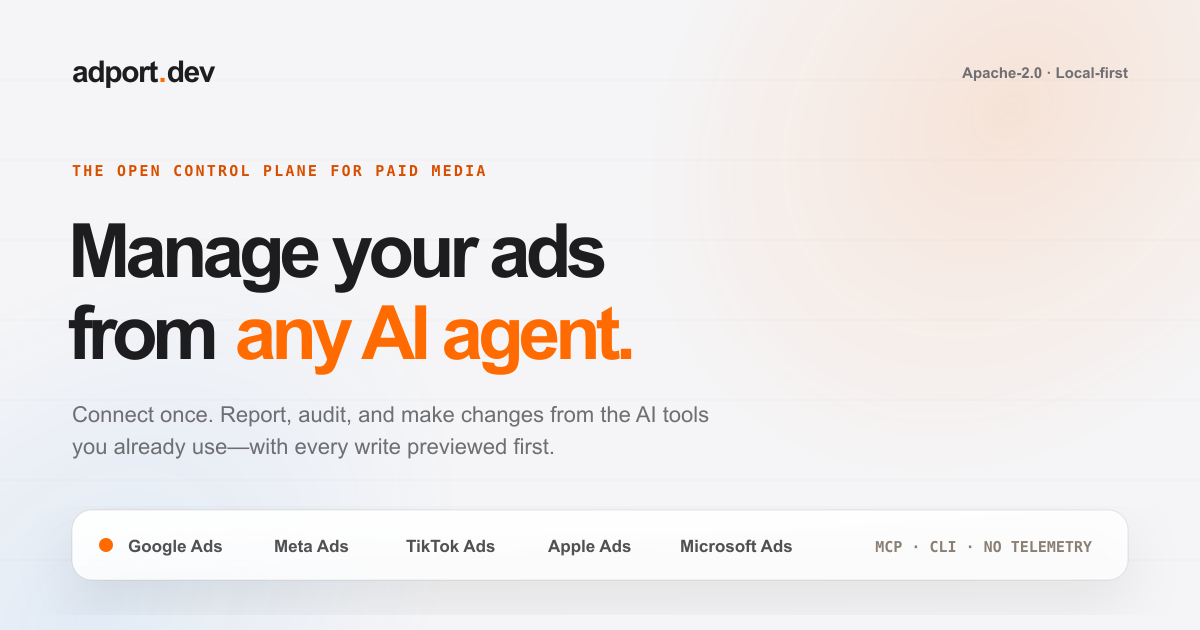
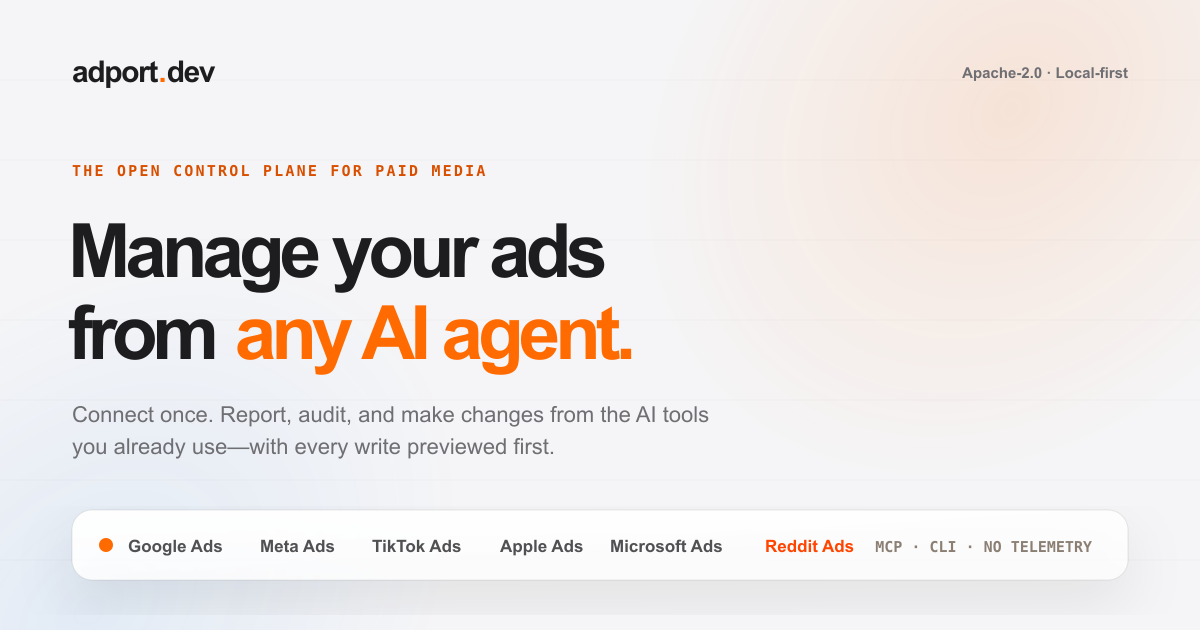
feat(website): add Reddit Ads to platform list

Changed region(s): [[0.2158, 0.8444, 0.7092, 0.8746]]

diff --git a/website/index.html b/website/index.html
@@ -11,14 +11,14 @@
     <meta property="og:description" content="Connect your ad accounts once. Manage them from any AI agent, with every write previewed first." />
     <meta property="og:type" content="website" />
     <meta property="og:url" content="https://www.adport.dev" />
-    <meta property="og:image" content="https://www.adport.dev/og-image.png?v=2" />
+    <meta property="og:image" content="https://www.adport.dev/og-image.png?v=3" />
     <meta property="og:image:width" content="1200" />
     <meta property="og:image:height" content="630" />
     <meta property="og:image:alt" content="Adport — Manage your ads from any AI agent" />
     <meta name="twitter:card" content="summary_large_image" />
     <meta name="twitter:title" content="Adport — The open control plane for paid media" />
     <meta name="twitter:description" content="Connect your ad accounts once. Manage them from any AI agent, with every write previewed first." />
-    <meta name="twitter:image" content="https://www.adport.dev/og-image.png?v=2" />
+    <meta name="twitter:image" content="https://www.adport.dev/og-image.png?v=3" />
     <title>Adport — The open control plane for paid media</title>
     <link rel="canonical" href="https://www.adport.dev" />
     <link rel="icon" href="/favicon.svg?v=2" type="image/svg+xml" />
@@ -73,7 +73,7 @@
           </button>
         </div>
         <ul class="proof" aria-label="Product attributes">
-          <li><strong>5</strong> ad platforms</li>
+          <li><strong>6</strong> ad platforms</li>
           <li><strong>2</strong> steps for every write</li>
           <li><strong>0</strong> telemetry</li>
         </ul>
@@ -107,6 +107,7 @@
         <li><svg class="tiktok-logo" viewBox="0 0 58 58" aria-hidden="true"><path d="M25.98 0v37.68c0 4.94-3.55 8.11-7.88 8.11-1.43 0-2.79-.33-3.97-.95 1.5 1.91 3.87 3.01 6.47 3.01 4.32 0 7.87-3.17 7.87-8.11V2.06h6.85A20.3 20.3 0 0 1 34.87 0h-8.89ZM20.36 21.91v-1.87a15.6 15.6 0 0 0-2.45-.19C8.16 19.85 0 27.66 0 37.35c0 6.36 3.1 11.79 7.81 15.01a18.09 18.09 0 0 1-5.32-12.96c0-9.67 8.14-17.48 17.87-17.49Zm29-6.56v-1.69a17.4 17.4 0 0 1-7.63-2.55 16.14 16.14 0 0 0 7.63 4.24Z" fill="#2DCCD3"/><path d="M41.73 11.11a17.48 17.48 0 0 1-4.37-9.05h-2.04c1.16 4.23 3.56 7.18 6.41 9.05Zm7.63 11.37a19.31 19.31 0 0 1-11-2.97c3.84 3.84 8.5 5.03 13.5 5.03v-8.82a17.4 17.4 0 0 1-2.5-.37v7.13ZM14.13 44.84a8.05 8.05 0 0 1-1.7-5.1c0-5.7 4.47-8.72 10.42-8.09v-9.55a14.98 14.98 0 0 0-2.45-.2h-.04v7.69c-5.95-.62-10.42 2.38-10.42 8.09 0 3.34 1.71 5.87 4.19 7.16Zm21.74-7.78c0 12.03-9.22 18.41-17.91 18.41-3.76 0-7.26-1.14-10.15-3.11a18.12 18.12 0 0 0 12.64 5.17c8.69 0 17.91-6.38 17.91-18.41V19.51a19.9 19.9 0 0 1-2.49-2.06v19.61Z" fill="#F1204A"/><path d="M35.32 2.06h-6.85v37.68c0 4.94-3.55 8.11-7.87 8.11-2.6 0-4.97-1.1-6.47-3.01-2.48-1.29-4.19-3.82-4.19-7.16 0-5.71 4.47-8.71 10.42-8.09v-7.68C10.63 21.93 2.49 29.73 2.49 39.4c0 5.16 2.04 9.71 5.32 12.96 2.89 1.97 6.39 3.11 10.15 3.11 8.69 0 17.91-6.38 17.91-18.41V17.45c.8.8 1.63 1.48 2.49 2.06a19.31 19.31 0 0 0 11 2.97v-7.13a16.14 16.14 0 0 1-7.63-4.24c-2.85-1.87-5.25-4.82-6.41-9.05Z" fill="#000"/></svg><span>TikTok Ads</span></li>
         <li><svg class="apple-logo" viewBox="0 0 24 24" aria-hidden="true"><path d="M12.152 6.896c-.948 0-2.415-1.078-3.96-1.04-2.04.027-3.91 1.183-4.961 3.014-2.117 3.675-.546 9.103 1.519 12.09 1.013 1.454 2.208 3.09 3.792 3.039 1.52-.065 2.09-.987 3.935-.987 1.831 0 2.35.987 3.96.948 1.637-.026 2.676-1.48 3.676-2.948 1.156-1.688 1.636-3.325 1.662-3.415-.039-.013-3.182-1.221-3.22-4.857-.026-3.04 2.48-4.494 2.597-4.559-1.429-2.09-3.623-2.324-4.39-2.376-2-.156-3.675 1.09-4.61 1.09Zm3.377-3.065C16.372 2.819 16.929 1.403 16.774 0c-1.207.052-2.662.805-3.532 1.818-.78.896-1.454 2.338-1.273 3.714 1.338.104 2.715-.688 3.56-1.701Z"/></svg><span>Apple Ads</span></li>
         <li><svg class="microsoft-logo" viewBox="0 0 24 24" aria-hidden="true"><path d="M0 0h11.4v11.4H0Z"/><path d="M12.6 0H24v11.4H12.6Z"/><path d="M0 12.6h11.4V24H0Z"/><path d="M12.6 12.6H24V24H12.6Z"/></svg><span>Microsoft Ads</span></li>
+        <li><svg class="reddit-logo" viewBox="0 0 24 24" aria-hidden="true"><path d="M12 0A12 12 0 0 0 0 12a12 12 0 0 0 12 12 12 12 0 0 0 12-12A12 12 0 0 0 12 0zm5.01 4.744c.688 0 1.25.561 1.25 1.249a1.25 1.25 0 0 1-2.498.056l-2.597-.547-.8 3.747c1.824.07 3.48.632 4.674 1.488.308-.309.73-.491 1.207-.491.968 0 1.754.786 1.754 1.754 0 .716-.435 1.333-1.01 1.614a3.111 3.111 0 0 1 .042.52c0 2.694-3.13 4.87-7.004 4.87-3.874 0-7.004-2.176-7.004-4.87 0-.183.015-.366.043-.534A1.748 1.748 0 0 1 4.028 12c0-.968.786-1.754 1.754-1.754.463 0 .898.196 1.207.49 1.207-.883 2.878-1.43 4.744-1.487l.885-4.182a.342.342 0 0 1 .14-.197.35.35 0 0 1 .238-.042l2.906.617a1.214 1.214 0 0 1 1.108-.701zM9.25 12C8.561 12 8 12.562 8 13.25c0 .687.561 1.248 1.25 1.248.687 0 1.248-.561 1.248-1.249 0-.688-.561-1.249-1.249-1.249zm5.5 0c-.687 0-1.248.561-1.248 1.25 0 .687.561 1.248 1.249 1.248.688 0 1.249-.561 1.249-1.249 0-.687-.562-1.249-1.25-1.249zm-5.466 3.99a.327.327 0 0 0-.231.094.33.33 0 0 0 0 .463c.842.842 2.484.913 2.961.913.477 0 2.105-.056 2.961-.913a.361.361 0 0 0 .029-.463.33.33 0 0 0-.464 0c-.547.533-1.684.73-2.512.73-.828 0-1.979-.196-2.512-.73a.326.326 0 0 0-.232-.095z"/></svg><span>Reddit Ads</span></li>
       </ul>
     </div>
 

diff --git a/website/styles.css b/website/styles.css
@@ -141,6 +141,7 @@ a { color: inherit; }
 .platforms .google-logo path:nth-child(3) { fill: #fbbc04; }
 .platforms .meta-logo { color: #0866ff; }
 .platforms .apple-logo { color: #111; }
+.platforms .reddit-logo { color: #ff4500; }
 .platforms .microsoft-logo path:nth-child(1) { fill: #f25022; }
 .platforms .microsoft-logo path:nth-child(2) { fill: #7fba00; }
 .platforms .microsoft-logo path:nth-child(3) { fill: #00a4ef; }
@@ -193,7 +194,6 @@ a { color: inherit; }
   .connected { display: none; }
   .platforms { gap: 1rem; padding-block: 1.25rem; }
   .platforms ul { display: grid; grid-template-columns: repeat(2, minmax(0, 1fr)); gap: 0.9rem 1.4rem; }
-  .platforms li:last-child { grid-column: 1 / -1; }
   .site-footer { align-items: flex-start; flex-direction: column; gap: 0.8rem; padding-block: 1.25rem; }
   .legal-header { padding-bottom: 3.5rem; }
 }
